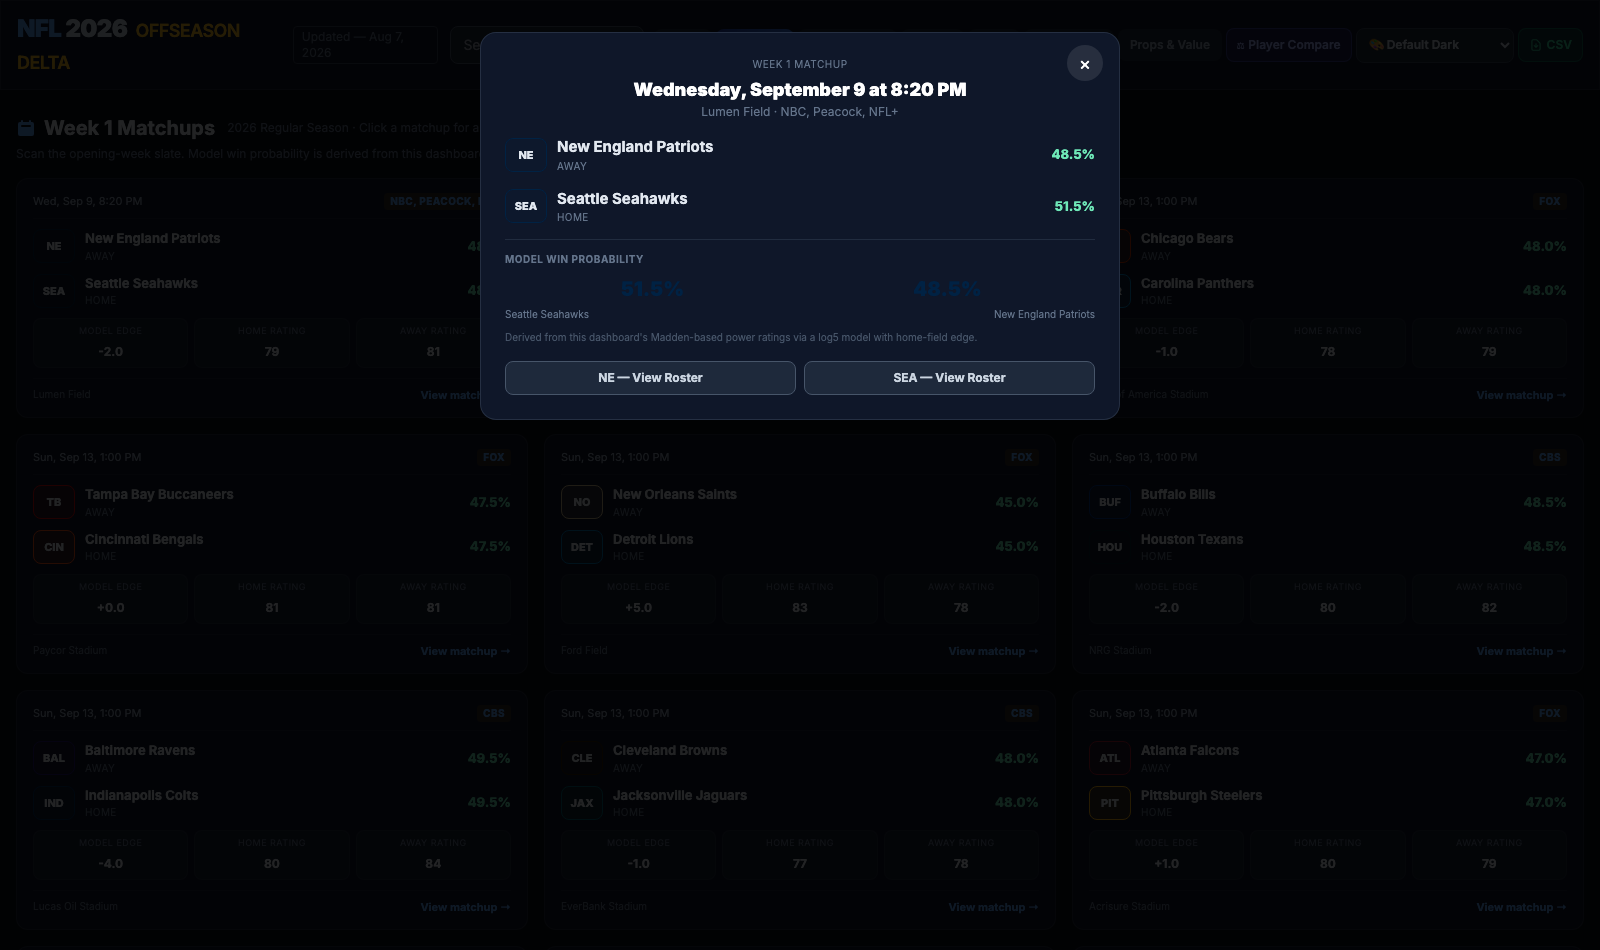
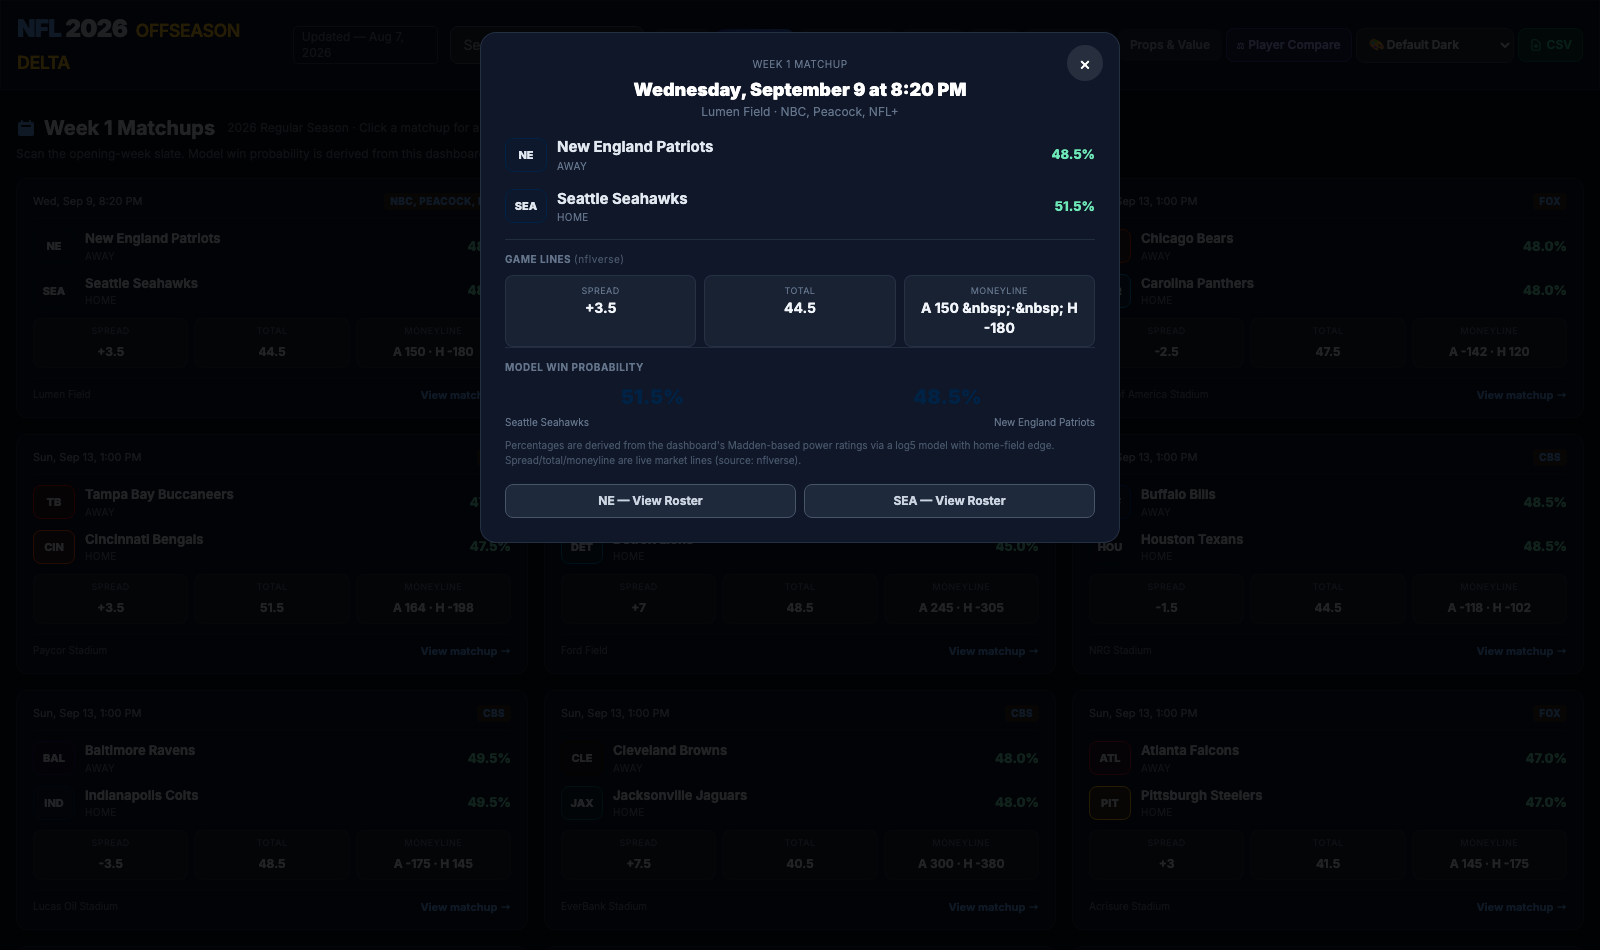
feat: show real game lines on Schedule cards via nflverse
Fetches nflverse's public, keyless games.csv at render time and joins the
2026 Week 1 spread, total, and both moneyline prices onto each matchup
card and detail modal. Resolves team names to nflverse canonical
abbreviations (handling alternate spellings like ARZ/ARI, LAR/LA) so
lookups match. This closes the market-data gap the analytics server
covered; the static app now reads the same source directly from the
browser with no API key or backend. Falls back to "—" when a line isn't
published yet.

Generated with Codebuff 🤖

diff --git a/index.html b/index.html
@@ -3136,6 +3136,103 @@ async function loadSchedule(){
   return SCHEDULE_DATA;
 }
 
+// ── Live game lines (spread / total / moneyline) from nflverse's public
+//    games.csv — the same free, keyless source the analytics server used.
+const NFLVERSE_GAMES_URL = 'https://raw.githubusercontent.com/nflverse/nfldata/master/data/games.csv';
+let MARKET_LINES = null;                 // map 'AWY|HOM' -> {spread,total,away_ml,home_ml}
+let MARKET_LINES_ERR = null;
+
+function csvParse(text){
+  const out = [];
+  const lines = String(text || '').split(/\r?\n/).filter(l => l.trim());
+  if (lines.length < 2) return out;
+  const split = (line) => {
+    const vals = []; let cur = ''; let inQ = false;
+    for (let i = 0; i < line.length; i++){
+      const ch = line[i];
+      if (ch === '"'){ if (inQ && line[i+1] === '"'){ cur += '"'; i++; } else inQ = !inQ; }
+      else if (ch === ',' && !inQ){ vals.push(cur.trim()); cur = ''; }
+      else cur += ch;
+    }
+    vals.push(cur.trim());
+    return vals;
+  };
+  const headers = split(lines[0]);
+  for (let i = 1; i < lines.length; i++){
+    const v = split(lines[i]);
+    const row = {};
+    headers.forEach((h, idx) => row[h] = v[idx] !== undefined ? v[idx] : '');
+    out.push(row);
+  }
+  return out;
+}
+
+function num(v){ return (v === '' || v === undefined || v === null || Number.isNaN(Number(v))) ? null : Number(v); }
+
+async function loadGameLines(){
+  if (MARKET_LINES) return MARKET_LINES;
+  if (MARKET_LINES_ERR) return {};
+  try {
+    const res = await fetch(NFLVERSE_GAMES_URL, { signal: AbortSignal.timeout(20000) });
+    if (!res.ok) throw new Error('HTTP ' + res.status);
+    const text = await res.text();
+    const map = {};
+    for (const r of csvParse(text)){
+      if (String(r.season) !== '2026' || String(r.week) !== '1' || String(r.game_type) !== 'REG') continue;
+      if (!r.away_team || !r.home_team) continue;
+      map[(r.away_team + '|' + r.home_team).toUpperCase()] = {
+        spread: num(r.spread_line),          // from the home team's perspective
+        total: num(r.total_line),
+        away_ml: num(r.away_moneyline),
+        home_ml: num(r.home_moneyline),
+        source: 'nflverse'
+      };
+    }
+    MARKET_LINES = map;
+  } catch (err) {
+    MARKET_LINES_ERR = err.message;
+    MARKET_LINES = {};
+  }
+  return MARKET_LINES || {};
+}
+
+// Resolve real market lines for a game (matched by team abbreviation pair).
+// Abbreviation resolves from the loaded team table first, then from the
+// built-in ABBR_TO_TEAM map (so lines still render even before Supabase rows load).
+let TEAM_TO_ABBR = null;
+// Canonical nflverse game.csv abbreviations; maps the app's alternate spellings
+// (e.g. ARZ/ARI, LAR/LA, JAC/JAX, KAN/KC, GNB/GB, NWE/NE, TAM/TB, WSH/WAS, SFO/SF, LVR/LV)
+// onto the single form that nflverse uses so market lookups always match.
+const CANON_ABBR = { ARZ:'ARI', ARI:'ARI', ARIZ:'ARI',
+  LAR:'LA', LVR:'LV', KAN:'KC', GNB:'GB', NWE:'NE', NOS:'NO',
+  TAM:'TB', WSH:'WAS', SFO:'SF', JAC:'JAX', OAK:'LV', SD:'LAC', STL:'LA' };
+function canonicalAbbr(abbr){
+  const up = String(abbr || '').toUpperCase();
+  if (up === 'LA') return 'LA';
+  return CANON_ABBR[up] || up;
+}
+function teamAbbrFor(name){
+  const fromData = DATA.teamAbbr?.[name];
+  if (fromData) return canonicalAbbr(fromData);
+  if (!TEAM_TO_ABBR){
+    TEAM_TO_ABBR = {};
+    for (const [abbr, full] of Object.entries(ABBR_TO_TEAM)) TEAM_TO_ABBR[full] = TEAM_TO_ABBR[full] || abbr;
+  }
+  return canonicalAbbr(TEAM_TO_ABBR[name] || '');
+}
+function gameMarketLines(game){
+  const line = MARKET_LINES || {};
+  const a = teamAbbrFor(game.away_team);
+  const h = teamAbbrFor(game.home_team);
+  return (a && h) ? (line[a + '|' + h] || null) : null;
+}
+
+function schLine(label, value, fmt){
+  const esc2 = (s) => String(s == null ? '' : s).replace(/&/g,'&amp;').replace(/</g,'&lt;').replace(/>/g,'&gt;');
+  const shown = (value === null || value === undefined) ? '<span class="muted">—</span>' : '<b>' + esc2(fmt ? fmt(value) : value) + '</b>';
+  return '<div class="sch-line"><span>' + label + '</span>' + shown + '</div>';
+}
+
 // Derive an 0-100 overall strength per team from this dashboard's own
 // Madden-based unit ratings (the macros already computed into DATA.rankings).
 function computeTeamOverall(teamName){
@@ -3174,37 +3271,46 @@ function scheduleTeamG(teamName, homeStr, awayStr, role){
     '<div class="sch-prob">' + (shown === null ? '<span class="muted">—</span>' : (shown * 100).toFixed(1) + '%') + '</div></div>';
 }
 
-function renderSchedule(){
+async function renderSchedule(){
   const c = document.getElementById('scheduleGrid');
   if (!c) return;
+  await loadGameLines();
   const data = SCHEDULE_DATA;
   if (!data || !data.games || !data.games.length) {
     c.innerHTML = '<p class="text-xs text-slate-500">No schedule data.</p>';
     return;
   }
   const esc = (s) => String(s == null ? '' : s).replace(/&/g,'&amp;').replace(/</g,'&lt;').replace(/>/g,'&gt;');
+  const tv = (game) => game.tv ? '<strong class="sch-badge">' + esc(game.tv) + '</strong>' : '';
+  const lineRow = (game) => {
+    const m = game.market;
+    if (!m) return '<div class="sch-lines">' + schLine('Spread','',null) + schLine('Total','',null) + schLine('Moneyline','',null) + '</div>';
+    // spread is from home-team perspective; show it on the home side
+    const ml = (m.away_ml !== null || m.home_ml !== null)
+      ? ((m.away_ml !== null ? 'A ' + m.away_ml : '') + (m.away_ml !== null && m.home_ml !== null ? ' · ' : '') + (m.home_ml !== null ? 'H ' + m.home_ml : '')).trim()
+      : null;
+    return '<div class="sch-lines">' +
+      schLine('Spread', m.spread, v => (v > 0 ? '+' : '') + v) +
+      schLine('Total', m.total, v => String(v)) +
+      schLine('Moneyline', ml, null) +
+      '</div>';
+  };
   const fmt = (game) => {
     const d = new Date(game.kickoff_utc);
     return isNaN(d.getTime()) ? 'Kickoff TBD' : d.toLocaleString([], { weekday:'short', month:'short', day:'numeric', hour:'numeric', minute:'2-digit' });
   };
   const sorted = data.games.slice().sort((a,b)=>String(a.kickoff_utc||'').localeCompare(String(b.kickoff_utc||'')));
   c.innerHTML = sorted.map(game => {
+    game.market = gameMarketLines(game);
     const homeStr = computeTeamOverall(game.home_team);
     const awayStr = computeTeamOverall(game.away_team);
-    const homeAbbr = DATA.teamAbbr[game.home_team] || ABBR_TO_TEAM[game.home_team] || game.home_team;
-    const awayAbbr = DATA.teamAbbr[game.away_team] || ABBR_TO_TEAM[game.away_team] || game.away_team;
-    const tv = game.tv ? '<strong class="sch-badge">' + esc(game.tv) + '</strong>' : '';
     return '<article class="sch-card" tabindex="0" role="button" ' +
       'aria-label="View analysis for ' + esc(game.away_team) + ' at ' + esc(game.home_team) + '" ' +
       'data-game="' + esc(game.game_id) + '">' +
-      '<div class="sch-head"><span>' + esc(fmt(game)) + '</span> ' + tv + '</div>' +
+      '<div class="sch-head"><span>' + esc(fmt(game)) + '</span> ' + tv(game) + '</div>' +
       scheduleTeamG(game.away_team, homeStr, awayStr, 'Away') +
       scheduleTeamG(game.home_team, homeStr, awayStr, 'Home') +
-      '<div class="sch-lines">' +
-        '<div class="sch-line"><span>Model Edge</span><b>' + (homeStr !== null && awayStr !== null ? esc(((homeStr - awayStr) >= 0 ? '+' : '') + (homeStr - awayStr).toFixed(1)) : '—') + '</b></div>' +
-        '<div class="sch-line"><span>Home Rating</span><b>' + (homeStr === null ? '—' : esc(String(homeStr))) + '</b></div>' +
-        '<div class="sch-line"><span>Away Rating</span><b>' + (awayStr === null ? '—' : esc(String(awayStr))) + '</b></div>' +
-      '</div>' +
+      lineRow(game) +
       '<div class="sch-foot"><span>' + esc(game.venue || '') + '</span><span class="sch-cta">View matchup →</span></div>' +
       '</article>';
   }).join('');
@@ -3218,6 +3324,18 @@ function renderSchedule(){
 function closeMatchupModal(){
   const ov = document.getElementById('matchupModal');
   if (ov) ov.classList.remove('active');
+}
+
+function marketBlock(m){
+  const e = (s) => String(s == null ? '' : s).replace(/&/g,'&amp;').replace(/</g,'&lt;').replace(/>/g,'&gt;');
+  if (!m) return '<div class="mt-3 border-t border-slate-700/50 pt-3"><div class="text-[10px] uppercase tracking-wider text-slate-500 font-bold mb-2">Game Lines <span class="normal-case font-normal text-slate-600">— none yet</span></div></div>';
+  const cell = (label, val) =>
+    '<div class="rounded-lg bg-slate-800/60 border border-slate-700/50 px-3 py-2 text-center"><div class="text-[9px] text-slate-500 uppercase tracking-wider">' + label + '</div><div class="text-sm font-bold text-slate-100">' + (val === null || val === undefined ? '<span class="text-slate-600">—</span>' : e(val)) + '</div></div>';
+  const spread = m.spread === null ? null : ((m.spread > 0 ? '+' : '') + m.spread);
+  const ml = (m.away_ml === null && m.home_ml === null) ? null :
+    'A ' + (m.away_ml === null ? '—' : m.away_ml) + ' &nbsp;·&nbsp; H ' + (m.home_ml === null ? '—' : m.home_ml);
+  return '<div class="mt-3 border-t border-slate-700/50 pt-3"><div class="text-[10px] uppercase tracking-wider text-slate-500 font-bold mb-2">Game Lines <span class="normal-case font-normal text-slate-600">(nflverse)</span></div>' +
+    '<div class="grid grid-cols-3 gap-2">' + cell('Spread', spread) + cell('Total', m.total) + cell('Moneyline', ml) + '</div></div>';
 }
 
 function openMatchup(gameId){
@@ -3256,11 +3374,12 @@ function openMatchup(gameId){
     '<div class="text-xs text-slate-500">' + esc(game.venue || '') + ' · ' + (game.tv ? esc(game.tv) : 'TV TBD') + '</div></div>' +
     row(game.away_team, 'Away', awayStr, prob === null ? null : 1 - prob, homeStr) +
     row(game.home_team, 'Home', homeStr, prob, awayStr) +
+    marketBlock(game.market) +
     '<div class="border-t border-slate-700/50 pt-3"><div class="text-[10px] uppercase tracking-wider text-slate-500 font-bold mb-2">Model Win Probability</div>' +
     '<div class="flex text-center"><div class="w-1/2 text-xl font-black" style="color:' + (DATA.teamColors[game.home_team]||'#60a5fa') +'">' + (prob === null ? '—' : (prob*100).toFixed(1) + '%') + '</div>' +
     '<div class="w-1/2 text-xl font-black" style="color:' + (DATA.teamColors[game.away_team]||'#60a5fa') +'">' + (prob === null ? '—' : ((1-prob)*100).toFixed(1) + '%') + '</div></div>' +
     '<div class="flex text-[10px] text-slate-500 mt-1"><div class="w-1/2 text-left">' + esc(game.home_team) + '</div><div class="w-1/2 text-right">' + esc(game.away_team) + '</div></div>' +
-    '<p class="text-[10px] text-slate-600 mt-2">Derived from this dashboard\'s Madden-based power ratings via a log5 model with home-field edge.</p></div>' +
+    '<p class="text-[10px] text-slate-600 mt-2">Percentages are derived from the dashboard\'s Madden-based power ratings via a log5 model with home-field edge. Spread/total/moneyline are live market lines (source: nflverse).</p></div>' +
     '<div class="grid grid-cols-2 gap-2 mt-4">' +
     '<button class="text-xs font-bold px-3 py-2 rounded-lg border border-slate-600 bg-slate-800 text-slate-300 hover:bg-slate-700 transition" onclick="openRoster(\'' + esc(game.away_team).replace(/'/g,"\\'") + '\');closeMatchupModal()">' + esc(DATA.teamAbbr[game.away_team]||ABBR_TO_TEAM[game.away_team]||game.away_team) + ' — View Roster</button>' +
     '<button class="text-xs font-bold px-3 py-2 rounded-lg border border-slate-600 bg-slate-800 text-slate-300 hover:bg-slate-700 transition" onclick="openRoster(\'' + esc(game.home_team).replace(/'/g,"\\'") + '\');closeMatchupModal()">' + esc(DATA.teamAbbr[game.home_team]||ABBR_TO_TEAM[game.home_team]||game.home_team) + ' — View Roster</button>' +

diff --git a/verify_schedule.py b/verify_schedule.py
@@ -66,7 +66,23 @@ with sync_playwright() as p:
     page.screenshot(path="screenshots_expansion/11_schedule_week1.png")
     page.locator("#matchupModal .roster-close").click()
 
-    # 5. Command palette includes schedule
+    # 5. Real market lines render (nflverse spread/total/moneyline)
+    # nflverse games.csv is ~2MB; poll until the first card's lines resolve
+    page.wait_for_timeout(800)
+    ok_market = False
+    for _ in range(40):
+        if page.locator(".sch-card .sch-line b").count() > 0:
+            if page.evaluate("() => (MARKET_LINES && Object.keys(MARKET_LINES).length > 0)"):
+                ok_market = True
+                break
+        page.wait_for_timeout(400)
+    grid_low = page.inner_text("#scheduleGrid").lower()
+    if ok_market and "spread" in grid_low and "total" in grid_low and "moneyline" in grid_low and any(c.isdigit() for c in grid_low):
+        successes.append("Cards show real Spread / Total / Moneyline values")
+    else:
+        failures.append("Market line row missing or empty (spread/total/moneyline)")
+
+    # 6. Command palette includes schedule
     page.keyboard.press("Meta+k")
     page.wait_for_selector("#cmdPaletteInput", timeout=5000)
     page.fill("#cmdPaletteInput", "Schedule")
